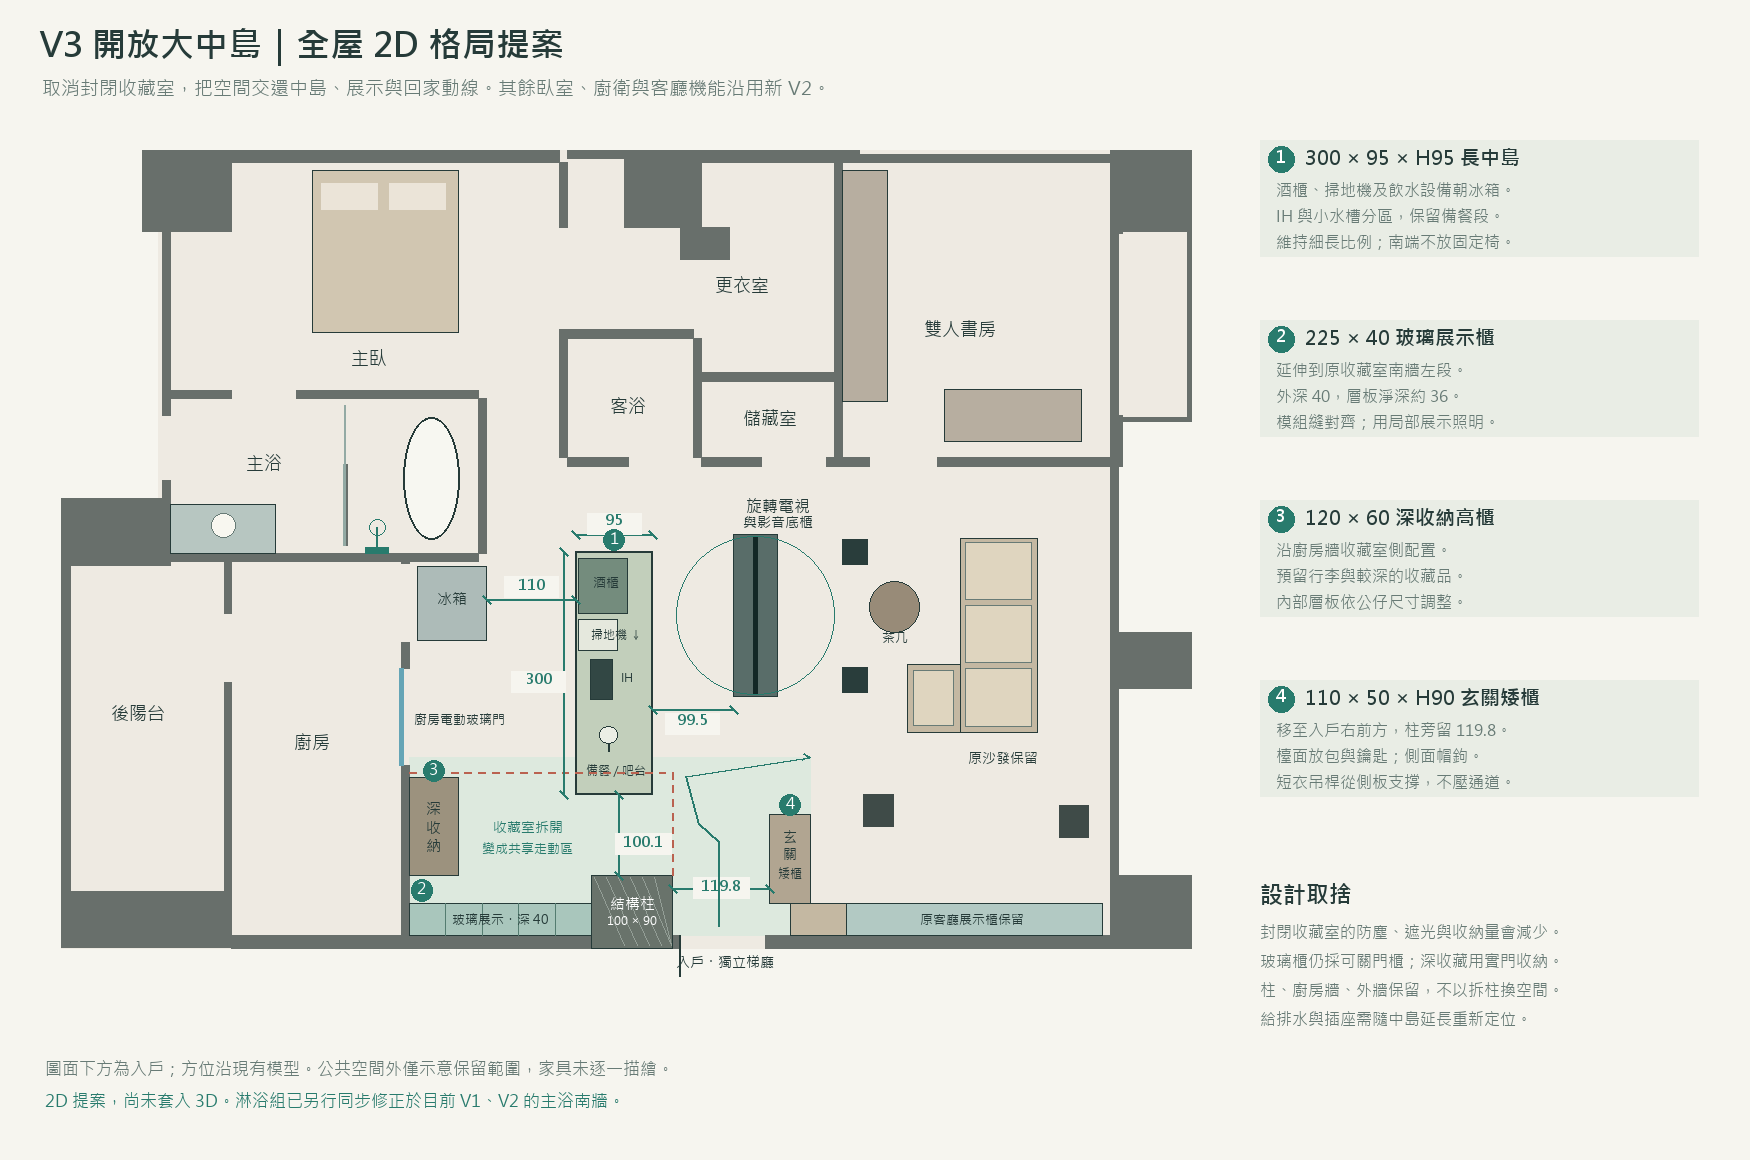
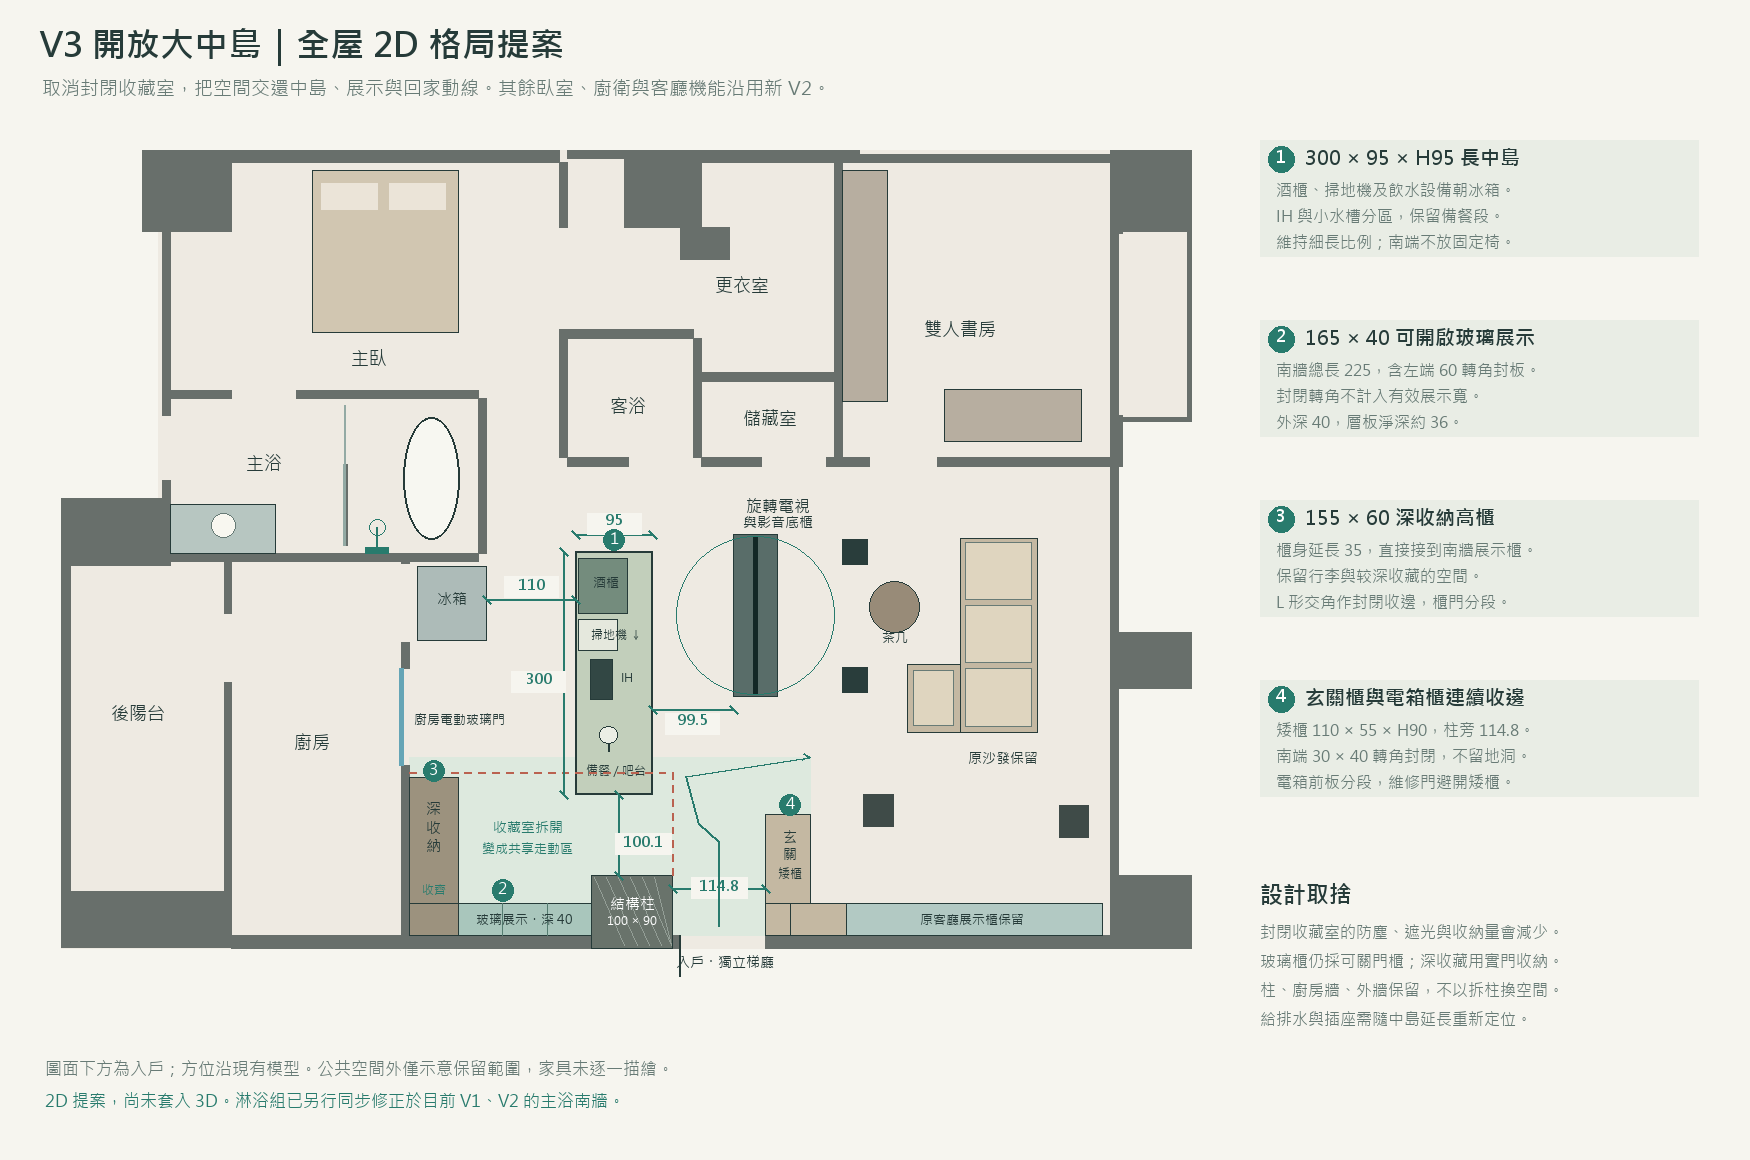
Close unused cabinet recesses in open island proposal

diff --git a/提案/開放大中島/index.html b/提案/開放大中島/index.html
@@ -2,7 +2,7 @@
 <nav><a href="../../index.html">V1 圓弧中島酒吧+玄關矮櫃</a><a href="../旋轉電視與直線中島/index.html?layout=v2">V2 旋轉電視+玄關高矮櫃</a><a href="../../方案比較.html">版本比較</a></nav>
 <h1>V3 開放大中島</h1><span class="tag">2D 提案・尚未套入 3D</span>
 <p>以新 V2 的旋轉電視方案為底，拆除收藏室展示牆與入口，將原房間納入中島區。保留結構柱及廚房牆，讓櫃子退到周邊，中央用一座細長中島整合備餐、飲水、酒櫃及掃地機。玄關矮櫃一併移位，避免留下橫擋在開放區的櫃體。</p>
-<h2>調整前後，使用相同比例</h2><a href="V3-格局對照.png"><img src="V3-格局對照.png" alt="新 V2 與 V3 開放大中島 2D 前後對比，標示 300 乘 95 中島、110 冰箱操作區與保留結構柱"></a>
+<p class="note">櫃體收邊已修正：左側 35cm 空隙由深收納櫃延長補齊；右側 30 × 40cm 轉角封閉。玄關櫃完成面往門框收齊 5cm，柱旁淨寬為 114.8cm，入戶門 107cm 開口保留。</p><h2>調整前後，使用相同比例</h2><a href="V3-格局對照.png"><img src="V3-格局對照.png" alt="新 V2 與 V3 開放大中島 2D 前後對比，標示 300 乘 95 中島、110 冰箱操作區與保留結構柱"></a>
 <nav><a href="V3-格局對照.png" download>下載對比 PNG</a><a href="V3-格局對照.svg" download>下載可縮放 SVG</a></nav>
 <h2>全屋位置</h2><a href="V3-全屋格局.png"><img src="V3-全屋格局.png" alt="V3 全屋配置，標出中島、南牆展示、深收納與玄關矮櫃"></a>
 <nav><a href="V3-全屋格局.png" download>下載全屋 PNG</a><a href="V3-全屋格局.svg" download>下載全屋 SVG</a><a href="格局尺寸.json">尺寸資料</a></nav>
@@ -11,11 +11,11 @@
 <tr><td>冰箱前操作區</td><td>110</td><td>按櫃門關閉狀態量；冰箱與酒櫃不宜同時對開。</td></tr>
 <tr><td>中島至影音底櫃</td><td>99.5</td><td>固定底櫃的間距；電視轉動時需清空旋轉區，不能用此尺寸宣稱可邊轉邊通行。</td></tr>
 <tr><td>中島南端至柱</td><td>100.1</td><td>保留連通收藏區及玄關的通道，不放固定吧椅。</td></tr>
-<tr><td>玄關柱旁通道</td><td>119.8</td><td>從柱的右邊到玄關新矮櫃左邊。</td></tr>
-<tr><td>收藏展示</td><td>南牆 225 寬 × 40 深</td><td>外深維持 40，層板淨深約 36；大公仔逐件核對。</td></tr>
-<tr><td>深收納</td><td>120 寬 × 60 深</td><td>廚房牆收藏室側，用於行李與較深收藏；高度依樑底配置。</td></tr>
-<tr><td>玄關矮櫃</td><td>110 寬 × 50 深 × 高 90</td><td>包與鑰匙置物、少量鞋；短衣桿与側面帽鉤保留。</td></tr>
-</tbody></table>
+<tr><td>玄關柱旁通道</td><td>114.8</td><td>從柱的右邊到玄關新矮櫃左邊。</td></tr>
+<tr><td>收藏展示</td><td>可開啟展示 165 寬 × 40 深</td><td>南牆總長 225，左端 60 為封閉轉角，不計入有效展示；外深 40，層板淨深約 36。</td></tr>
+<tr><td>深收納</td><td>155 寬 × 60 深</td><td>沿廚房牆延長 35cm，直接接到南牆展示櫃；高度依樑底配置。</td></tr>
+<tr><td>玄關矮櫃</td><td>110 寬 × 55 深 × 高 90</td><td>包與鑰匙置物、少量鞋；短衣桿与側面帽鉤保留。</td></tr>
+<tr><td>玄關南端轉角</td><td>30 × 40 封閉收邊</td><td>與電箱櫃接齊，採可拆封板，不計入有效收納；電箱前板分段，維修門避開矮櫃高度。</td></tr></tbody></table>
 <p class="note">拆除的是收藏室隔間／展示櫃與門片。約 100 × 90 的結構柱、廚房邊界與外牆保留。圖面依現有模型座標，非現場丈量；施工前須確認隔間內的管線與結構，並重新安排中島給排水、插座及設備散熱。</p>
 <h2>這個方案的取捨</h2><p>優點是中島與入口視線連續、動線可以繞行，材質與櫃體能做成整體。代價是原本整面收藏展示與深櫃總量減少，也失去獨立收藏室的遮光條件；改用可關門的展示櫃控制灰塵，較深收藏放實門櫃。若收藏量已接近放滿，需依清單核對後再決定是否採用。</p>
 <p><small>動線參考：本案採單人操作區 110cm、一般通道約 100cm；參考 <a href="https://media.nkba.org/uploads/2022/05/Kitchen-Planning-Guidelines.pdf">NKBA Kitchen Planning Guidelines 的操作區與通道規劃</a>，不是將國外規劃建議當成本地法規或施工認證。圖上尺寸為模型推算，電視、椅子及櫃門開啟時另計動態範圍。</small></p>
